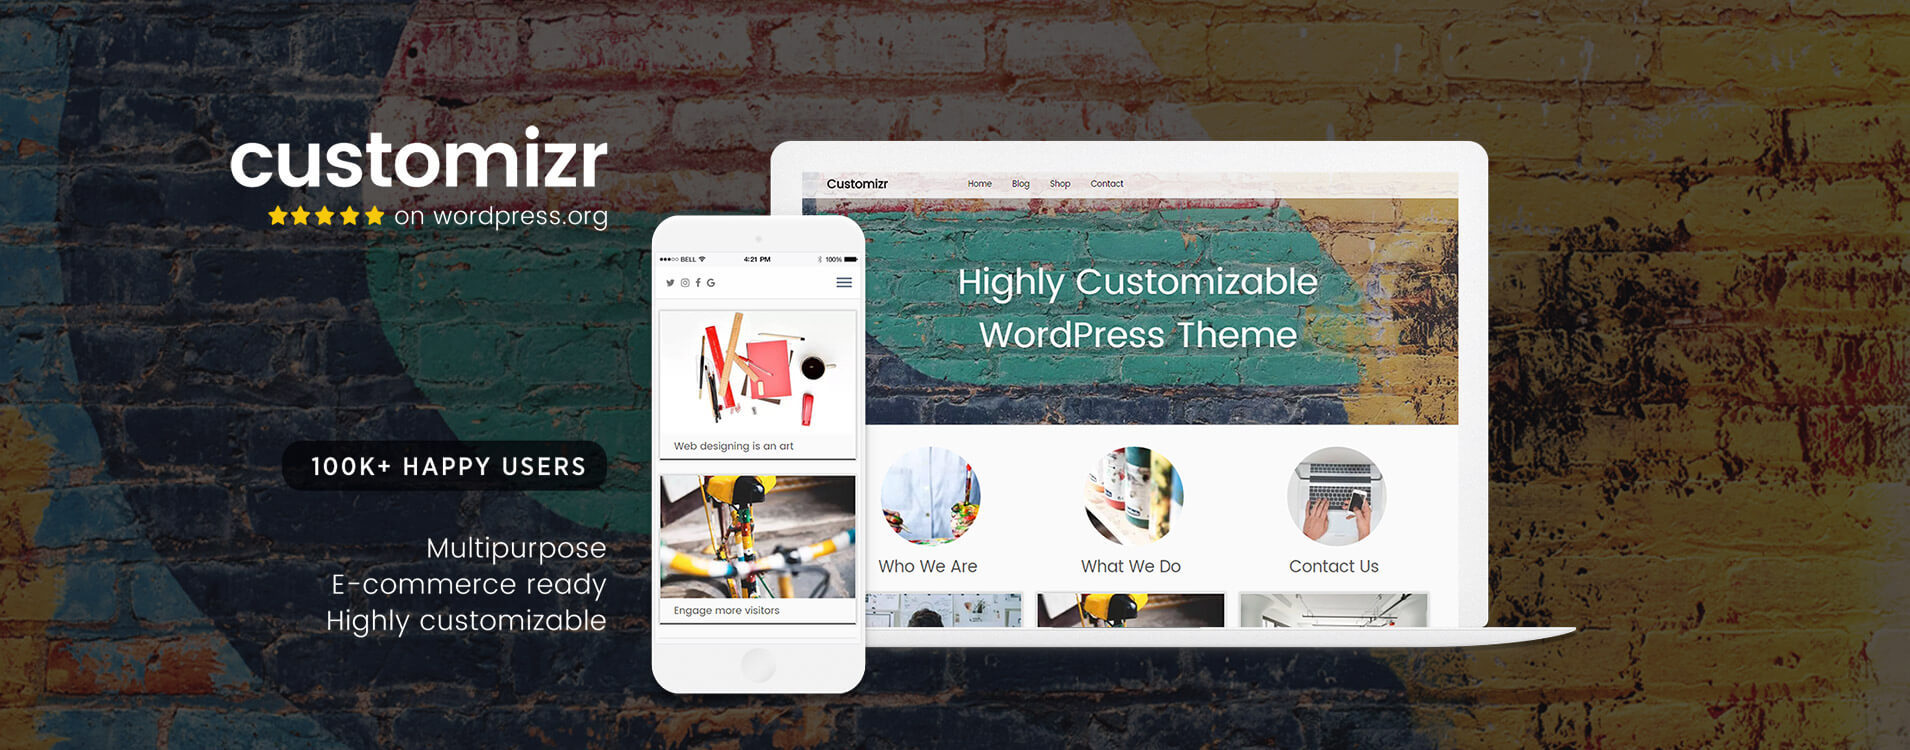
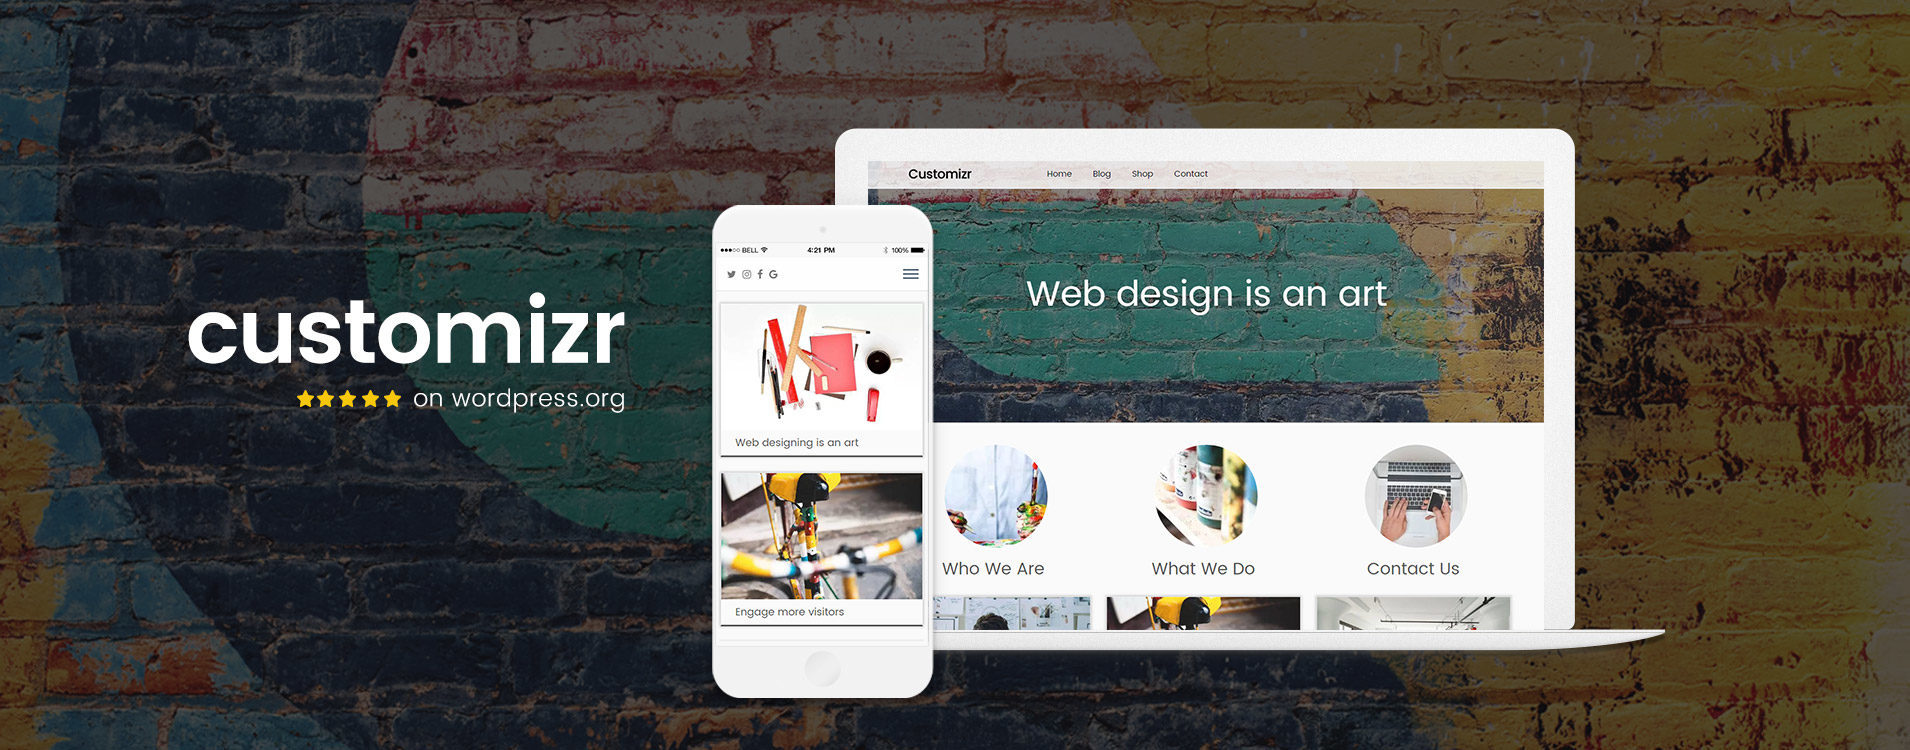
screeshot update default slides are linking to documentation

Changed region(s): [[0.0927, 0.1533, 0.8649, 0.9507], [0.1853, 0.7053, 0.3089, 0.8587]]

diff --git a/inc/_dev/parts/class-content-slider.php b/inc/_dev/parts/class-content-slider.php
@@ -1098,13 +1098,13 @@ class CZR_slider {
     switch ( $id ) {
       case 1 :
         //$data['title']        = __( 'Discover how to replace or remove this demo slider.', 'customizr' );
-        $data['link_url']     = esc_url( 'http://presscustomizr.com/customizr' );
+        $data['link_url']     = esc_url( 'docs.presscustomizr.com/article/175-first-steps-with-the-customizr-wordpress-theme' );
         $data['button_text']  = __( 'Discover the Customizr WordPress theme &raquo;' , 'customizr');
       break;
 
       case 2 :
         $data['title']        = __( 'Discover how to replace or remove this demo slider.', 'customizr' );
-        $data['link_url']     = esc_url( 'http://presscustomizr.com/article/102-customizr-theme-options-front-page/#front-page-slider' );
+        $data['link_url']     = esc_url( 'docs.presscustomizr.com/article/102-customizr-theme-options-front-page#front-page-slider' );
         $data['button_text']  = __( 'Check the slider doc now &raquo;' , 'customizr');
       break;
     };
